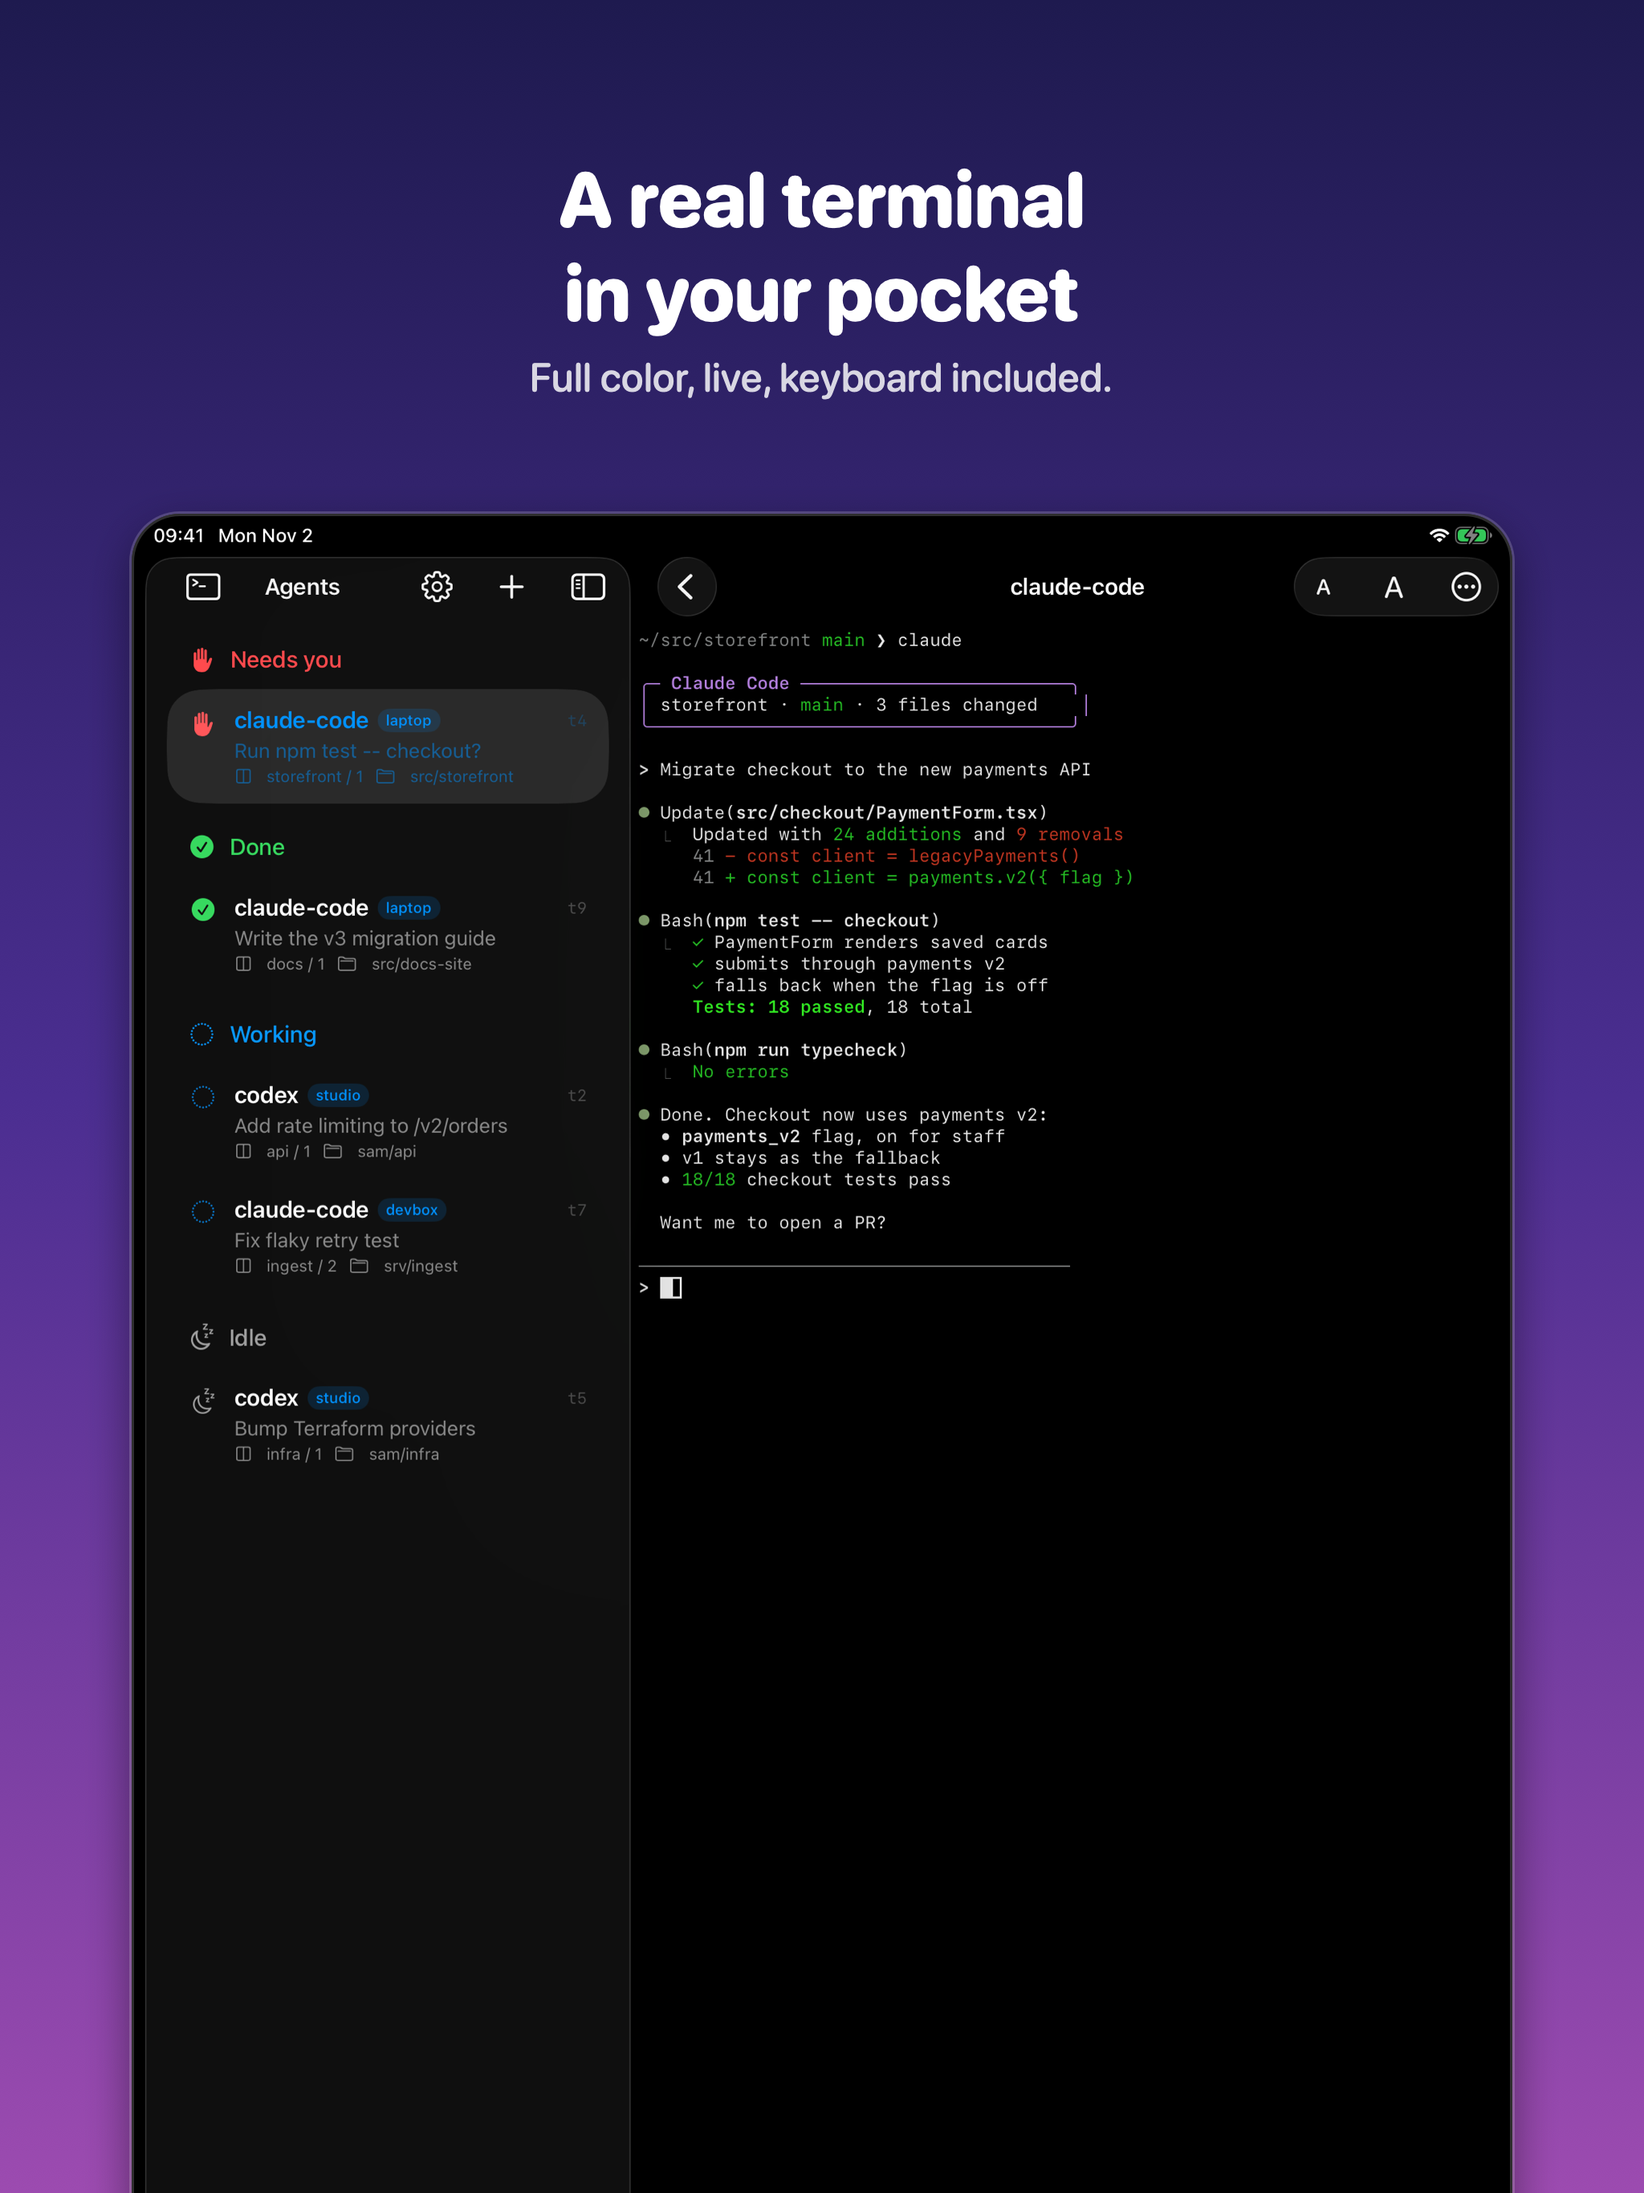
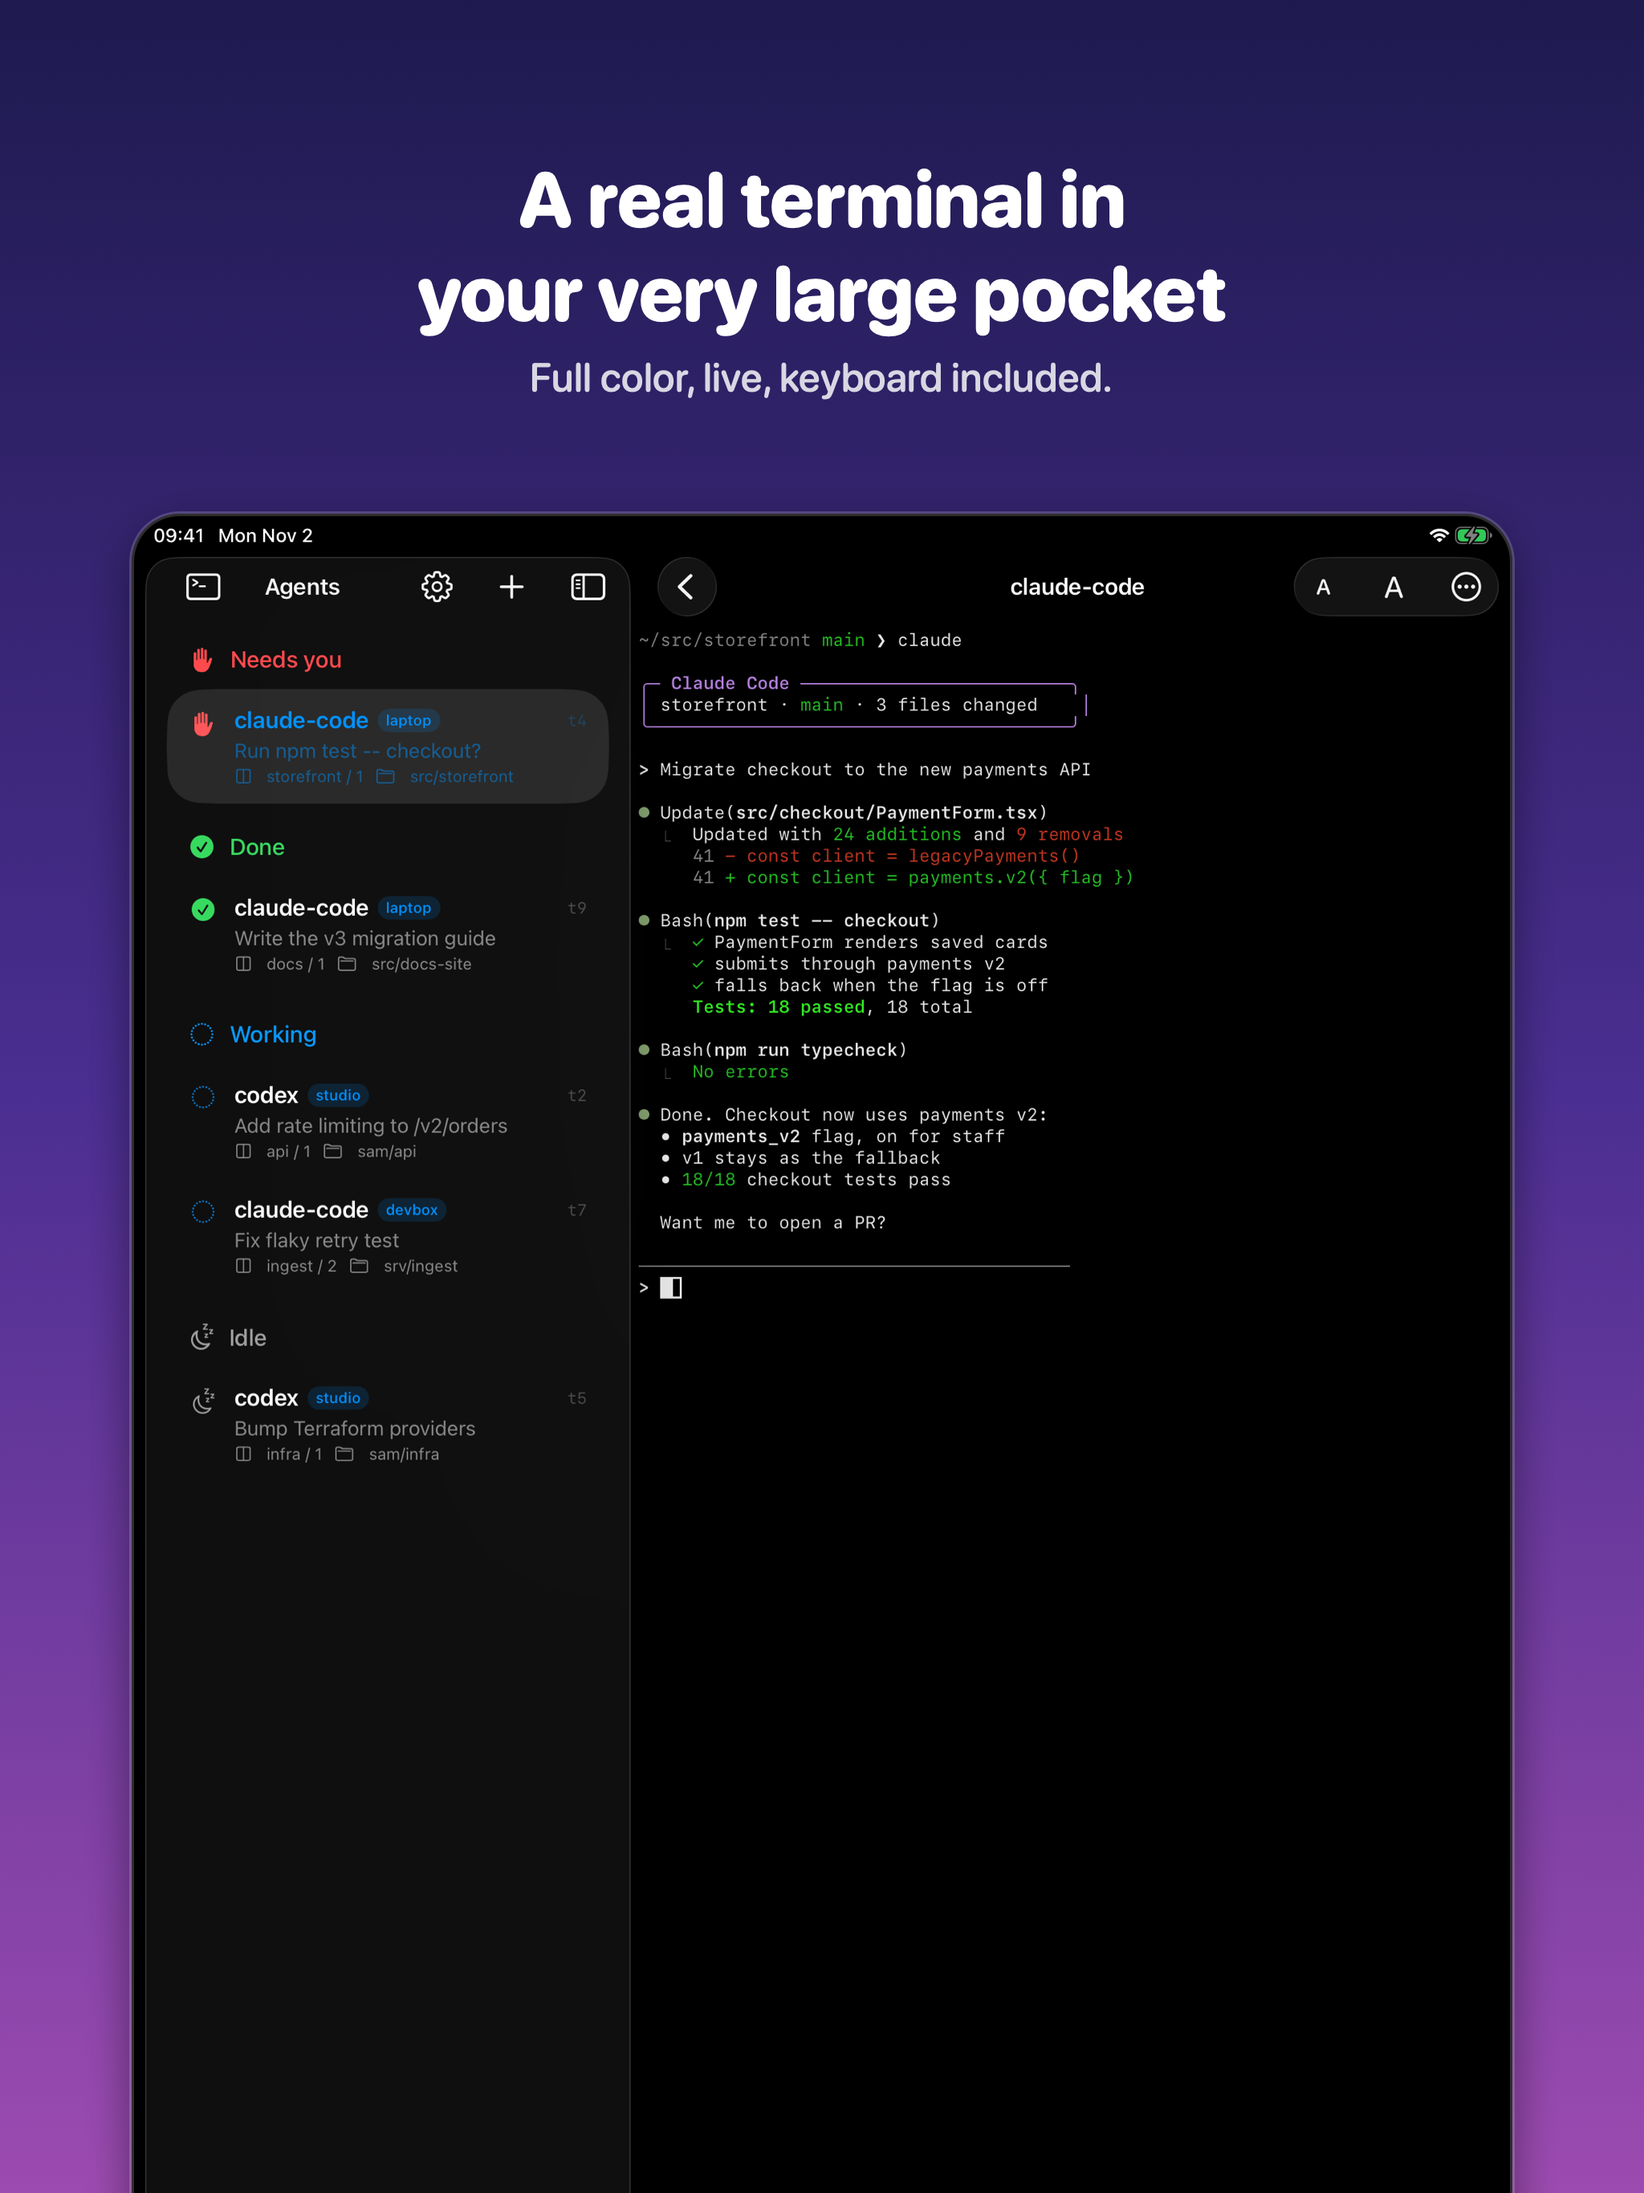
Caption the iPad live terminal "in your very large pocket"

Changed region(s): [[0.25, 0.0622, 0.75, 0.1556]]

diff --git a/appstore/make-screenshots.swift b/appstore/make-screenshots.swift
@@ -120,7 +120,7 @@ frame("03-blocked", gradient: sunset) { _ in
 }
 
 frame("04-live-terminal", gradient: dusk) { _ in
-    caption("A real terminal\nin your pocket", "Full color, live, keyboard included.")
+    caption(iPad ? "A real terminal in\nyour very large pocket" : "A real terminal\nin your pocket", "Full color, live, keyboard included.")
     phone("3-live.png")
 }
 
